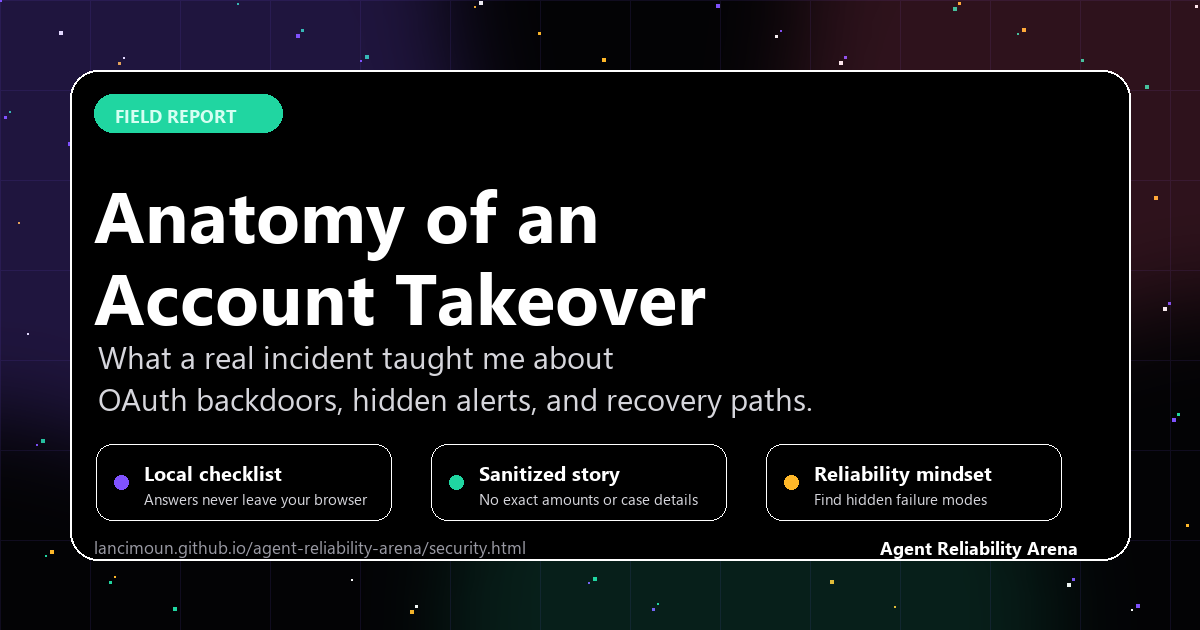
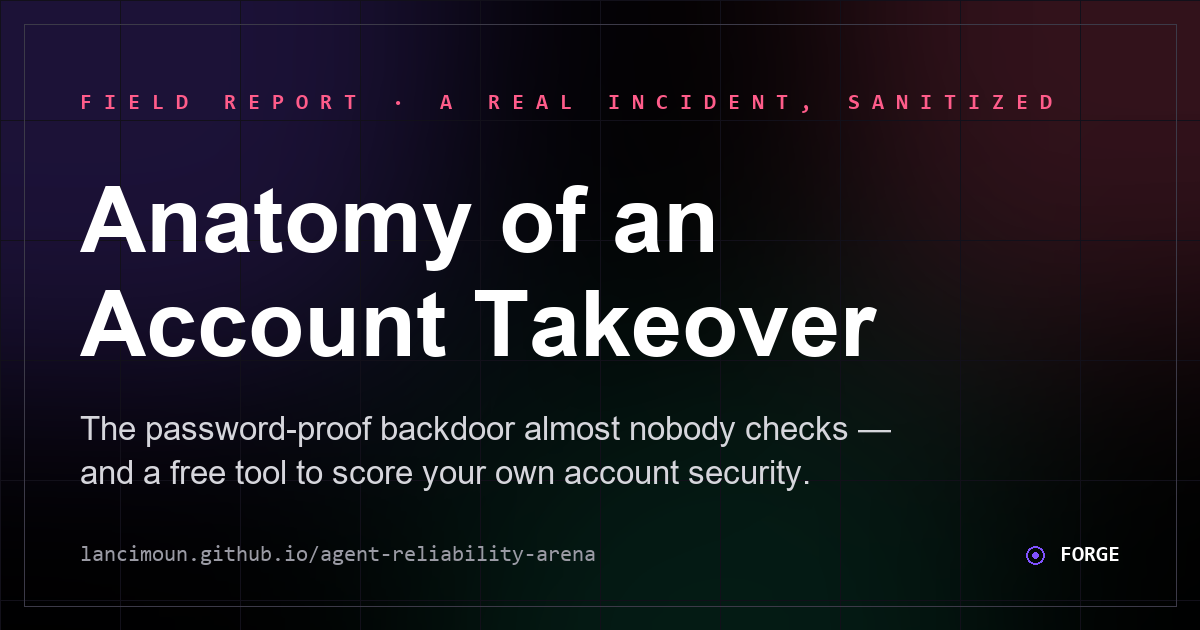
feat(security): consumer-domain scoring honesty + OG image + cross-links + a11y
- Domain scanner: for consumer providers (gmail/outlook/etc.) relabel the
  score as 'Provider DNS, not your account' so personal users aren't misled
- Add 1200x630 OG/Twitter share image (referenced in meta but was missing)
- Cross-link the field report from the Reliability Checker nav
- aria-live on the three result panels; simplify the audit mailto encoding

diff --git a/docs/security.html b/docs/security.html
@@ -302,7 +302,7 @@
       </div>
       <div class="panel result">
         <h2>Scanner findings</h2>
-        <div class="issue-list" id="domainIssueList">
+        <div class="issue-list" id="domainIssueList" aria-live="polite">
           <div class="issue warn"><strong>No domain scan yet</strong>Enter a domain you own, then run the scanner. Public DNS results can reveal missing mail-authentication controls before attackers abuse them.</div>
         </div>
         <h2 style="font-size:16px;margin:8px 0 0">Observed DNS records</h2>
@@ -340,7 +340,7 @@
         <div class="score" style="min-height:138px" id="deepScoreBox">
           <div><strong id="deepScoreValue">--</strong><span id="deepScoreLabel">Awaiting audit</span></div>
         </div>
-        <div class="issue-list" id="deepIssueList" style="margin-top:12px">
+        <div class="issue-list" id="deepIssueList" style="margin-top:12px" aria-live="polite">
           <div class="issue warn"><strong>No deep scan yet</strong>Tick the protections you have verified across PC, mobile, accounts, and money paths.</div>
         </div>
         <div class="toolbar">
@@ -379,7 +379,7 @@
         </div>
         <div>
           <h2 style="font-size:16px;margin:4px 0 8px">Your gaps &amp; what to fix first</h2>
-          <div class="issue-list" id="issueList">
+          <div class="issue-list" id="issueList" aria-live="polite">
             <div class="issue warn"><strong>No score yet</strong>Check the boxes for protections you already have, then hit Score my security.</div>
           </div>
         </div>
@@ -650,18 +650,27 @@
 
     var score = findings.reduce(function (sum, f) { return sum + f.points; }, 0);
     var verdict = score >= 90 ? "Hardened" : score >= 70 ? "Solid" : score >= 45 ? "Needs Work" : "Exposed";
-    return { tool: "FORGE Email Domain Security Scanner", generatedAt: new Date().toISOString(), domain: domain, score: Math.max(0, Math.min(100, score)), verdict: verdict, findings: findings, records: records };
+    return { tool: "FORGE Email Domain Security Scanner", generatedAt: new Date().toISOString(), domain: domain, score: Math.max(0, Math.min(100, score)), verdict: verdict, consumerProvider: options.consumerProvider || "", findings: findings, records: records };
   }
 
   function renderDomainReport(report) {
     domainScanState.report = report;
-    document.getElementById("domainScore").textContent = report.score;
-    document.getElementById("domainVerdict").textContent = report.verdict;
     var list = document.getElementById("domainIssueList");
     list.innerHTML = "";
     var summary = document.createElement("div");
-    summary.className = "issue " + (report.score >= 70 ? "warn" : "fail");
-    summary.innerHTML = "<strong>" + escapeHtml(report.domain) + " · " + report.score + "/100</strong>" + escapeHtml("Verdict: " + report.verdict + ". Prioritize fail/warn items before launch.");
+    if (report.consumerProvider) {
+      // Honesty: a personal mailbox (gmail/outlook/etc.) scans the PROVIDER's shared DNS,
+      // which is always near-perfect and says nothing about THIS user's account safety.
+      document.getElementById("domainScore").textContent = "—";
+      document.getElementById("domainVerdict").textContent = "Provider DNS, not your account";
+      summary.className = "issue warn";
+      summary.innerHTML = "<strong>" + escapeHtml(report.domain) + " is " + escapeHtml(report.consumerProvider) + "</strong>" + escapeHtml("This checks the provider's shared mail DNS — it is always strong and does NOT measure your personal account. Your safety depends on the deep scan below (passwords, 2FA, OAuth grants, sessions), not this score.");
+    } else {
+      document.getElementById("domainScore").textContent = report.score;
+      document.getElementById("domainVerdict").textContent = report.verdict;
+      summary.className = "issue " + (report.score >= 70 ? "warn" : "fail");
+      summary.innerHTML = "<strong>" + escapeHtml(report.domain) + " · " + report.score + "/100</strong>" + escapeHtml("Verdict: " + report.verdict + ". Prioritize fail/warn items before launch.");
+    }
     list.appendChild(summary);
     report.findings.forEach(function (f) {
       var node = document.createElement("div");
@@ -680,10 +689,10 @@
       records.appendChild(node);
     });
 
-    var fixes = report.findings.filter(function (f) { return f.kind !== "pass"; }).slice(0, 5).map(function (f) { return "- " + f.title + ": " + f.text; }).join("%0D%0A");
+    var fixes = report.findings.filter(function (f) { return f.kind !== "pass"; }).slice(0, 5).map(function (f) { return "- " + f.title + ": " + f.text; }).join("\n");
     document.getElementById("emailDomainReportBtn").href =
       "mailto:[email redacted]?subject=" + encodeURIComponent("Security posture audit for " + report.domain) +
-      "&body=" + encodeURIComponent("Hi Lance,\n\nI scanned " + report.domain + " and got " + report.score + "/100 (" + report.verdict + ").\n\nTop findings:\n" + (fixes ? decodeURIComponent(fixes) : "- No major findings") + "\n\nCan you help me harden this?");
+      "&body=" + encodeURIComponent("Hi Lance,\n\nI scanned " + report.domain + " and got " + report.score + "/100 (" + report.verdict + ").\n\nTop findings:\n" + (fixes || "- No major findings") + "\n\nCan you help me harden this?");
   }
 
   async function scanDomain() {

diff --git a/docs/checker.html b/docs/checker.html
@@ -117,6 +117,7 @@
     <div class="brand"><span class="brand-sigil" aria-hidden="true"></span><span>Reliability Checker</span></div>
     <div class="navlinks">
       <a class="btn" href="https://lancimoun.github.io/agent-reliability-arena/">Arena</a>
+      <a class="btn" href="security.html">Security Field Report</a>
       <a class="btn" href="https://github.com/Lancimoun/agent-reliability-arena">GitHub</a>
       <a class="btn primary" href="#hire">Hire me</a>
     </div>